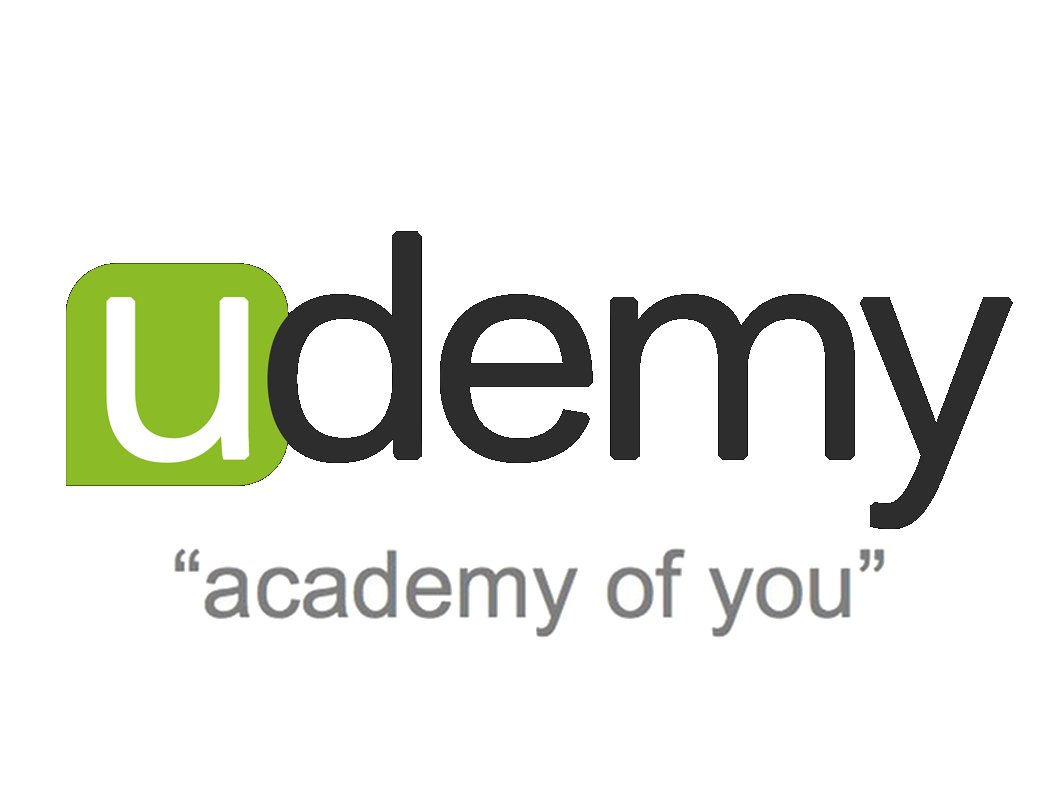
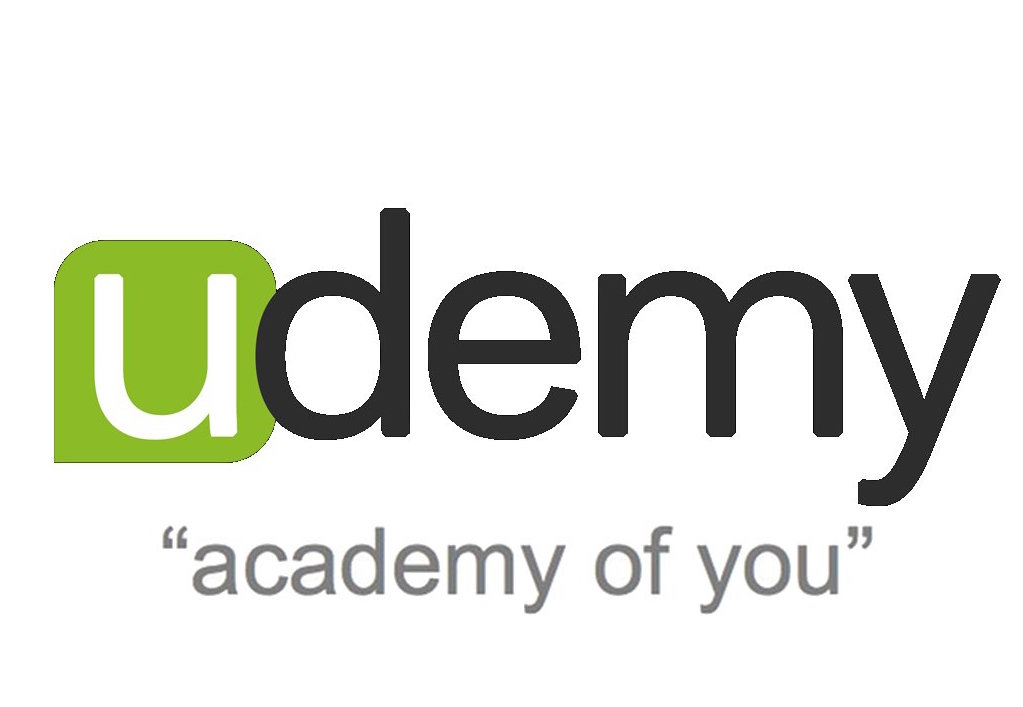
change images chapter 1 and 2

diff --git a/tex_files/chapter_1/section_2.tex b/tex_files/chapter_1/section_2.tex
@@ -6,12 +6,12 @@ In a few years many MOOC services were developed. Each service has particular fe
 \subsection{Coursera}
 \label{subsec:coursera}
 
-\begin{figure}[htb] %  figure placement: here, top, bottom
- \centering
- \includegraphics[width=0.5\linewidth]{images/chapter1/coursera.jpg}\hfill
- \caption[Coursera logo]{Coursera logo}
- \label{fig:fourV}
-\end{figure}
+  \begin{minipage}{\linewidth}
+      \centering
+      \includegraphics[width=0.5\linewidth]{images/chapter1/coursera.jpg}
+      \captionof{figure}[Coursera logo]{Coursera logo}
+  \end{minipage}
+\\
 
 Coursera is a MOOC platform established by professors of Computer Science, Andrew Ng and Daphne Koller of Stanford University. Coursera is only a platform, each course depends on the universities that it provides. This platform has more than 150 International University Partners including the University of Rome La Sapienza and the Bocconi University of Milan that allow the platform to offer courses in many different languages, including Italian. All courses on Coursera are accessible for free.
 For those interested, in some courses, they are given the opportunity to obtain a “Verified certificate” at the end of course, which is a certificate issued by the university providing the course. The certificates are paid and have a various costs.
@@ -23,15 +23,14 @@ In less than a year, Coursera has received \$ 22 million in venture capital and 
 
 \subsection{EdX}
 \label{subsec:EdX}
-\begin{figure}[htb] %  figure placement: here, top, bottom
- \centering
- \includegraphics[width=0.5\linewidth]{images/chapter1/edx_logo.png}\hfill
- \caption[EdX logo]{EdX logo}
- \label{fig:fourV}
-\end{figure}
+  \begin{minipage}{\linewidth}
+      \centering
+      \includegraphics[width=0.5\linewidth]{images/chapter1/edx_logo.png}
+      \captionof{figure}[EdX logo]{EdX logo}
+  \end{minipage}
+\\
 
 EdX is an initiative of non-profit online education organization founded in May 2012.
-
 
 The platform promoted by Harvard University and Massachusettes Institute of Technology is part of a project in which the two institutes collaborate in order to create a global comunity of online learning that extends to hundreds of millions of people throughout the world at no cost. Other prestigious universities, such as Berkley, Texas University and UTX along with many other universities have joined in on this project.
 
@@ -49,12 +48,13 @@ In September 2013, EdX announced a partnership with Google to expand the usage a
 
 \subsection{SkillShare}
 \label{subsec:SkillShare}
-\begin{figure}[htb] %  figure placement: here, top, bottom
- \centering
- \includegraphics[width=0.5\linewidth]{images/chapter1/skillshare.jpg}\hfill
- \caption[SkillShare logo]{SkillShare logo}
- \label{fig:fourV}
-\end{figure}
+
+\begin{minipage}{\linewidth}
+      \centering
+      \includegraphics[width=0.5\linewidth]{images/chapter1/skillshare.jpg}
+      \captionof{figure}[SkillShare logo]{SkillShare logo}
+  \end{minipage}
+  \\
 
 
 %http://www.forbes.com/sites/jjcolao/2012/08/07/learning-by-doing-skillshare-unveils-hybrid-classes/#2715e4857a0b48b2f14421c2
@@ -74,12 +74,14 @@ Finally we can say that unlike other platforms, Skillshare allows to pay a month
 
 \subsection{Udacity}
 \label{subsec:udacity}
-\begin{figure}[htb] %  figure placement: here, top, bottom
- \centering
- \includegraphics[width=0.5\linewidth]{images/chapter1/udacity.png}\hfill
- \caption[Udacity logo]{Udacity logo}
- \label{fig:fourV}
-\end{figure}
+
+\begin{minipage}{\linewidth}
+      \centering
+      \includegraphics[width=0.5\linewidth]{images/chapter1/udacity.png}
+      \captionof{figure}[Udacity logo]{Udacity logo}
+  \end{minipage}
+  \\
+
 
 Udacity was born in 2011 from an experiment at Stanford University and already collected 4 million members. The portal offers scientific, design and business courses which are divided by various levels. The courses are provided by non-traditional teaching methods.
 The certificates are released at the end of the course if the candidate needs to prove his identity and has reached the objectives of the course without external aid. Some of Udacity's courses are fee.
@@ -94,12 +96,13 @@ With Udacity, each student learns by following online classes that last from 6 t
 
 \subsection{Udemy}
 \label{subsec:udemy}
-\begin{figure}[htb] %  figure placement: here, top, bottom
- \centering
- \includegraphics[width=0.5\linewidth]{images/chapter1/udemy.jpg}\hfill
- \caption[Udemy logo]{Udemy logo}
- \label{fig:fourV}
-\end{figure}
+
+\begin{minipage}{\linewidth}
+      \centering
+      \includegraphics[width=0.5\linewidth]{images/chapter1/udemy.jpg}
+      \captionof{figure}[Udemy logo]{Udemy logo}
+  \end{minipage}
+  \\
 
 Udemy is platform or marketplace for online learning that allows anyone to publish online video  courses. There is an Italian version of the site but the majority of the courses are in English and in other languages such as French, Spanish and Chinese.
 There are free and paid courses in many different areas: excel, photoshop, facebook for companies, mathematical, but also cooking, music, sports, arts, languages.

diff --git a/tex_files/chapter_2/section_1.tex b/tex_files/chapter_2/section_1.tex
@@ -2,9 +2,17 @@
 \label{sec:Video platforms}
 
 The initial phase of the thesis project has been dedicated to the research of the different platforms of streaming video in order to highlight the strengths, differences and costs required. As stated previously, the next section briefly describes the features, services and costs of major video platforms, even though the final choice was to focus on the development of an independent video platform through the use of services offered by Amazon AWS.
-
+\newpage
 \subsection{JW Player}
 \label{sec:JW Player}
+
+\begin{figure}[htb]
+ \centering
+ \includegraphics[width=1.0\linewidth]{images/chapter2/jwtPLayer.png}\hfill
+ \caption[JW player cost]{JW player cost}
+ \label{fig:fourV}
+\end{figure}
+
  JW Player is an open source solution, which allows anyone with a website to replace simple embedded videos from youtube with a real player, which is:
 
 \begin{itemize}
@@ -18,17 +26,15 @@ JW Player supports playback of any format like the Adobe Flash Player along with
 \end{itemize}
 
 
-\begin{figure}[htb]
+\subsection{Video Wowza}
+\label{sec:Video Wowza}
+\begin{figure}[!htb]
  \centering
- \includegraphics[width=1.0\linewidth]{images/chapter2/jwtPLayer.png}\hfill
- \caption[JW player cost]{JW player cost}
+ \includegraphics[width=1.0\linewidth]{images/chapter2/wowza.png}\hfill
+ \caption[Wowza cost]{Wowza cost}
  \label{fig:fourV}
 \end{figure}
 
-\newpage 
-
-\subsection{Video Wowza}
-\label{sec:Video Wowza}
  The server Video Wowza is based on the platform streaming web TV Wowza Streaming Engine and is supplied with a control panel complete with:
 \begin{itemize}
 
@@ -46,25 +52,21 @@ JW Player supports playback of any format like the Adobe Flash Player along with
 You can send the video stream using any encoder that supports Wowza streaming server.
 
 
-\begin{figure}[!htb]
- \centering
- \includegraphics[width=1.0\linewidth]{images/chapter2/wowza.png}\hfill
- \caption[Wowza cost]{Wowza cost}
- \label{fig:fourV}
-\end{figure}
 
 \subsection{Ustream}
 \label{sec:Ustream}
- Ustream is a broadcast platform for live streaming of events of any kind: from news conferences to product launches, from classes via teleconference to international protests.
 
-Users can create a broadcast channel through their computer and a standard Web browser or a smartphone, via app for iOS and Android systems.
-Users also can record their events and then load them on the platform, so that they can be broadcasted at another time. With the use of special cameras, Ustream makes it possible to stream HD video.
-During the livestream viewers can interact with each other through chat and answer surveys and questionnaires posed by the organizers of the stream.
-
-  
 \begin{figure}[!htb]
  \centering
  \includegraphics[width=1.0\linewidth]{images/chapter2/ustream.png}\hfill
  \caption[Ustream cost]{Ustream cost}
  \label{fig:fourV}
 \end{figure}
+
+Ustream is a broadcast platform for live streaming of events of any kind: from news conferences to product launches, from classes via teleconference to international protests.
+
+Users can create a broadcast channel through their computer and a standard Web browser or a smartphone, via app for iOS and Android systems.
+Users also can record their events and then load them on the platform, so that they can be broadcasted at another time. With the use of special cameras, Ustream makes it possible to stream HD video.
+During the livestream viewers can interact with each other through chat and answer surveys and questionnaires posed by the organizers of the stream.
+
+  

diff --git a/tex_files/chapter_2/section_4.tex b/tex_files/chapter_2/section_4.tex
@@ -25,13 +25,11 @@ Elastic Transcoder has four components:
 
 \item \textbf{Presets} are templates that contain most of the settings for transcoding media files from one format to another. Elastic Transcoder includes some default presets for common formats, for example, several iPod and iPhone versions. You can also create your own presets for formats that aren't included among the default presets. You specify which preset you want to use when you create a job.\cite{s3_et}
 
-\begin{figure}[htbp] %  figure placement: here, top, bottom
- \centering
- \includegraphics[width=1.0\linewidth]{images/chapter2/aws_transcoder1.png}\hfill
- \caption[Example of Preset]{Example of Preset}
- \label{fig:fourV}
-\end{figure}
-
+\begin{minipage}{\linewidth}
+    \centering
+    \includegraphics[width=1.0\linewidth]{images/chapter2/aws_transcoder1.png}
+    \captionof{figure}[Example of Preset]{Example of Preset}
+\end{minipage}
 
 \item \textbf{Notifications} let you optionally configure Elastic Transcoder and Amazon Simple Notification Service to keep you apprised of the status of a job: when Elastic Transcoder starts processing the job, when Elastic Transcoder finishes the job, and whether Elastic Transcoder encounters warning or error conditions during processing. Notifications eliminate the need for polling to determine when a job has finished. You configure notifications when you create a pipeline.\cite{s3_et}
 \end{itemize}

diff --git a/tex_files/chapter_2/section_7.tex b/tex_files/chapter_2/section_7.tex
@@ -30,7 +30,7 @@ We don't want to signficant quality drop just because your player is one pixel t
 
 \begin{figure}[htb] %  figure placement: here, top, bottom
  \centering
- \includegraphics[width=0.8\linewidth]{images/chapter2/bitrate-switching-4.png}\hfill
+ \includegraphics[width=1.0\linewidth]{images/chapter2/bitrate-switching-4.png}\hfill
  \caption[Bitrate switching]{Bitrate switching}
  \label{fig:fourV}
 \end{figure}
